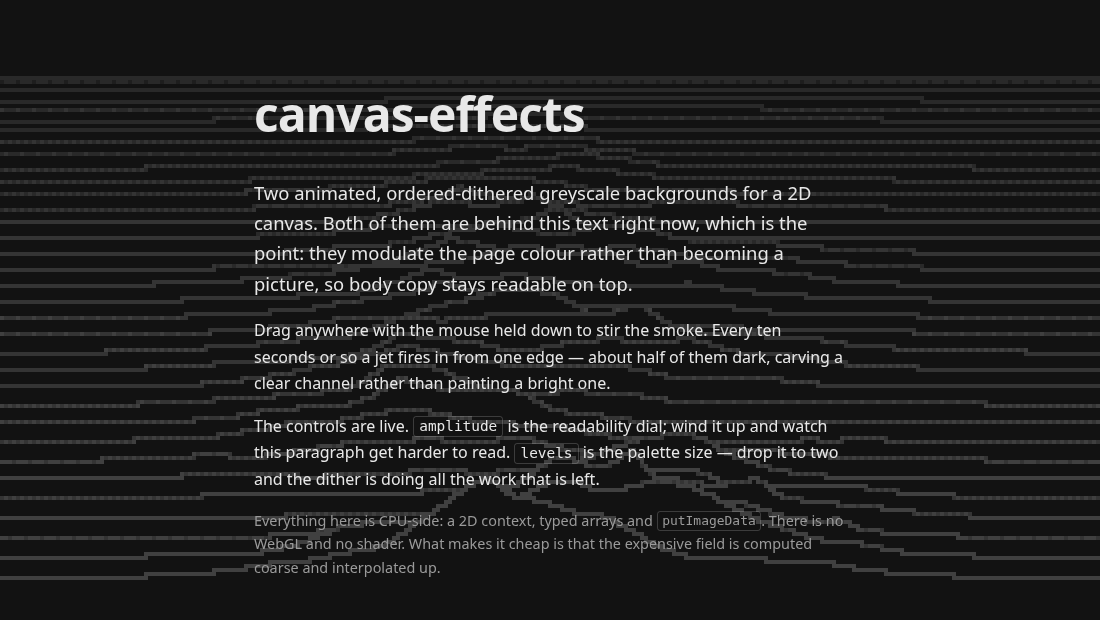
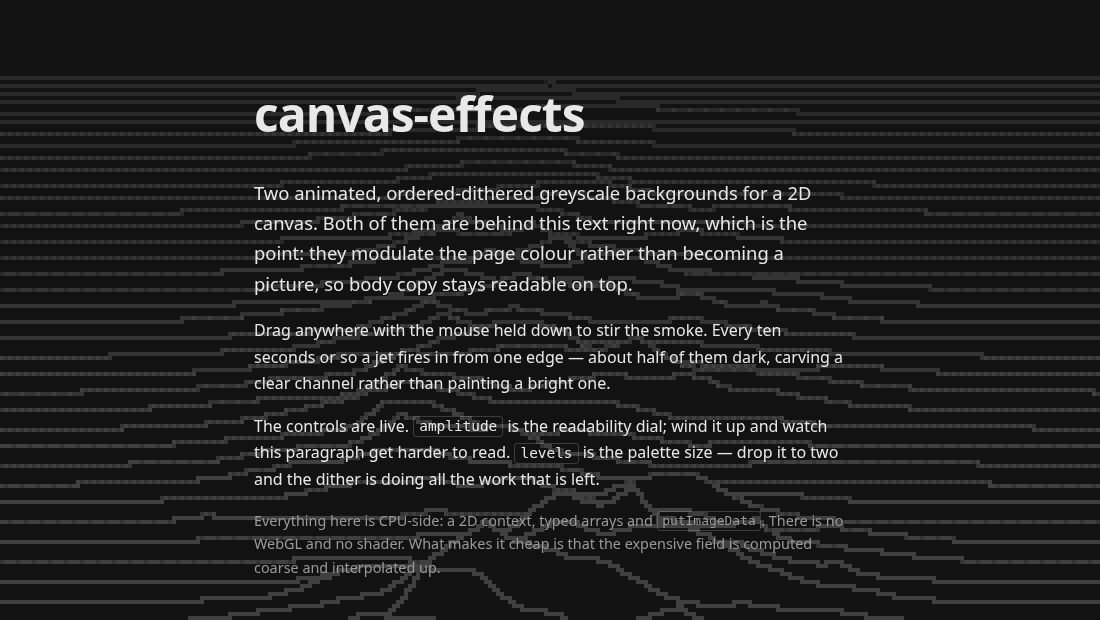
Let ridges roll off the bottom instead of vanishing at the near edge
The nearest profile crept down to `bottomMargin` and then popped out of
existence the moment `travel` crossed the next whole number, because the loop
started at `ceil(travel)` and dropped anything nearer. Measured across one row of
travel on an 80-cell field: the lowest drawn row walked 72.8 to 75.2 and then
snapped back, and the bottom five rows were never drawn at all.

`overscan` now keeps rows alive past the near edge. They matter on screen twice
over - a crest stays visible long after its baseline has gone, and its silhouette
must keep occluding the rows behind it. Rows entirely below the edge are skipped,
so it is a bound rather than a workload; a test asserts raising it to 40 changes
nothing.

ONE SUBTLETY THIS UNCOVERED
Extrapolating the geometry past the edge is not enough on its own, because
amplitude grows faster than the baseline does. A row slightly past the edge
loomed several screen heights tall and threw a silhouette over the whole field -
and since the growth outran the baseline's, it never qualified as fully below the
screen and never left. The existing steep-flank test caught it, failing with 42
blank columns.

rowAmplitude now freezes a row's size at the near edge. Strict perspective would
keep enlarging it, which is arguably more correct - you are flying into it - but
it makes the effect unusable and prevents rows ever leaving. Frozen, a row simply
slides out of frame.

Also clamps rowBrightness at 1: depth is negative for overscan rows, and full
[…]

diff --git a/src/ridges.test.ts b/src/ridges.test.ts
@@ -222,6 +222,112 @@ describe('renderRidges', () => {
   });
 });
 
+describe('rolling off the bottom', () => {
+  /** The lowest row with anything drawn in it, or -1. */
+  const lowestLit = (r: Ridges) => {
+    for (let y = r.h - 1; y >= 0; y--) {
+      for (let x = 0; x < r.w; x++) if (r.field[y * r.w + x] > 0) return y;
+    }
+    return -1;
+  };
+
+  it('draws below bottomMargin, where nothing used to be drawn at all', () => {
+    // Without overscan the nearest row stops at `bottomMargin` and the strip
+    // below it is permanently blank.
+    const withOverscan = seeded(3);
+    renderRidges(withOverscan, RIDGE_DEFAULTS);
+    const without = seeded(3);
+    renderRidges(without, { ...RIDGE_DEFAULTS, overscan: 0 });
+
+    const margin = Math.floor(RIDGE_DEFAULTS.bottomMargin * H);
+    expect(lowestLit(without)).toBeLessThanOrEqual(margin);
+    expect(lowestLit(withOverscan)).toBeGreaterThan(margin);
+  });
+
+  it('does not pop a row out of existence as travel crosses a whole number', () => {
+    // The bug this fixes: the nearest row crept down to bottomMargin and then
+    // vanished, so the lowest drawn row jumped back up the screen once per row
+    // of travel. Sampled finely across a crossing, the low-water mark should
+    // move smoothly.
+    const r = seeded(3);
+    const params = { ...RIDGE_DEFAULTS, speed: 1 };
+    const samples: number[] = [];
+
+    for (let i = 0; i <= 24; i++) {
+      r.travel = 4 + i / 24;
+      renderRidges(r, params);
+      samples.push(lowestLit(r));
+    }
+
+    let worstJump = 0;
+    for (let i = 1; i < samples.length; i++) worstJump = Math.max(worstJump, Math.abs(samples[i] - samples[i - 1]));
+
+    // A deleted row showed up as a jump of several cells back up the screen.
+    expect(worstJump).toBeLessThanOrEqual(2);
+  });
+
+  it('keeps a crest visible after its baseline has left the screen', () => {
+    // Which is the whole reason the overscan rows are drawn rather than merely
+    // counted. Targeted rather than searched: pick the depth where a row's
+    // baseline is off screen but its crest is not, then place a row there.
+    const params = RIDGE_DEFAULTS;
+
+    let depth = 0;
+    for (let d = -0.005; d > -0.5; d -= 0.005) {
+      const base = rowY(d, H, params);
+      if (base > H && base - rowAmplitude(d, H, params) < H) {
+        depth = d;
+        break;
+      }
+    }
+    expect(depth).toBeLessThan(0);
+
+    // depth = (worldZ - travel) / rows, so this puts row 10 at that depth.
+    const travel = 10 - depth * params.rows;
+    const margin = Math.floor(params.bottomMargin * H);
+
+    const withOverscan = seeded(3);
+    withOverscan.travel = travel;
+    renderRidges(withOverscan, params);
+
+    const without = seeded(3);
+    without.travel = travel;
+    renderRidges(without, { ...params, overscan: 0 });
+
+    const belowMargin = (r: Ridges) => {
+      let n = 0;
+      for (let y = margin + 1; y < H; y++) for (let x = 0; x < W; x++) if (r.field[y * r.w + x] > 0) n++;
+      return n;
+    };
+
+    expect(belowMargin(withOverscan)).toBeGreaterThan(0);
+    expect(belowMargin(without)).toBe(0);
+  });
+
+  it('still lets rows leave, rather than looming forever', () => {
+    // Amplitude is frozen at the near edge so the baseline outruns it. If it
+    // kept growing, a passing row would never be fully below the screen and
+    // would occlude the entire field from behind the bottom edge.
+    const params = RIDGE_DEFAULTS;
+    for (const depth of [-0.05, -0.2, -0.6, -2]) {
+      const base = rowY(depth, H, params);
+      const amp = rowAmplitude(depth, H, params);
+      expect(amp).toBeLessThanOrEqual(rowAmplitude(0, H, params) + 1e-9);
+      if (depth <= -0.6) expect(base - amp).toBeGreaterThanOrEqual(H);
+    }
+  });
+
+  it('costs little: rows fully below the edge are skipped, not drawn', () => {
+    // Overscan is a bound rather than a workload. Raising it well past what the
+    // geometry needs must not change the picture.
+    const modest = seeded(3);
+    renderRidges(modest, RIDGE_DEFAULTS);
+    const generous = seeded(3);
+    renderRidges(generous, { ...RIDGE_DEFAULTS, overscan: 40 });
+    expect(Array.from(generous.field)).toEqual(Array.from(modest.field));
+  });
+});
+
 describe('stepRidges', () => {
   it('flies forward at the speed it is given', () => {
     const r = seeded();

diff --git a/src/ridges.ts b/src/ridges.ts
@@ -75,6 +75,20 @@ export interface RidgeParams {
   depthFade: number;
   /** Rows crossed per second. This is the flying speed. */
   speed: number;
+  /**
+   * Extra rows kept alive past the near edge, so a profile rolls off the bottom
+   * of the screen instead of being deleted when it gets there.
+   *
+   * Without this the nearest row creeps down to `bottomMargin` and then pops out
+   * of existence the moment `travel` crosses the next whole number - and nothing
+   * is ever drawn below `bottomMargin` at all. Rows below the edge still matter
+   * on screen twice over: a crest can remain visible long after its baseline has
+   * gone, and its silhouette must keep occluding the rows behind it.
+   *
+   * A row is skipped once it is entirely below the bottom edge, so this is a
+   * bound rather than a cost - most of the extra rows do no work.
+   */
+  overscan: number;
 }
 
 export const RIDGE_DEFAULTS: RidgeParams = {
@@ -104,6 +118,10 @@ export const RIDGE_DEFAULTS: RidgeParams = {
   bottomMargin: 0.94,
   depthFade: 0.45,
   speed: 1.6,
+  // Enough that the nearest simulated row is always fully off screen at the
+  // default perspective and amplitude. Baselines grow faster than peaks as
+  // rows pass the edge, so this does not need to be large.
+  overscan: 8,
 };
 
 /** Seeds and offsets that give one run its landscape. */
@@ -155,14 +173,33 @@ export function rowY(depth: number, h: number, params: RidgeParams): number {
   return far + (near - far) * Math.pow(1 - depth, params.perspective);
 }
 
-/** Peak height for a row, in cells. Distant rows are shorter. */
+/**
+ * Peak height for a row, in cells. Distant rows are shorter.
+ *
+ * Held flat once a row passes the near edge rather than continuing to grow.
+ * Strict perspective would keep enlarging it - you are flying into it, after
+ * all - and a row only slightly past the edge would loom several screen heights
+ * tall, throw a silhouette across the whole field and occlude everything behind
+ * it. Worse, that growth outruns the baseline's, so such a row never qualifies
+ * as fully below the screen and never leaves at all. Freezing the size at the
+ * near edge lets a row simply slide out of frame, which is what rolling off the
+ * bottom should look like.
+ */
 export function rowAmplitude(depth: number, h: number, params: RidgeParams): number {
-  return params.amplitude * h * Math.pow(1 - depth, params.ampFalloff);
+  const clamped = depth < 0 ? 0 : depth;
+  return params.amplitude * h * Math.pow(1 - clamped, params.ampFalloff);
 }
 
-/** Line brightness for a row, 0 to 1. Distant rows are dimmer, and so hazier. */
+/**
+ * Line brightness for a row, 0 to 1. Distant rows are dimmer, and so hazier.
+ *
+ * Clamped at the top because `depth` goes negative for rows that have passed the
+ * near edge, and full brightness has to stay exactly 1 - it is a fixed point of
+ * the ordered dither, which is the only reason one-cell lines survive it.
+ */
 export function rowBrightness(depth: number, params: RidgeParams): number {
-  return 1 - depth * (1 - params.depthFade);
+  const value = 1 - depth * (1 - params.depthFade);
+  return value > 1 ? 1 : value;
 }
 
 export interface Ridges {
@@ -210,14 +247,20 @@ export function renderRidges(ridges: Ridges, params: RidgeParams): void {
 
   const first = Math.ceil(travel);
 
-  // Nearest first. The floating horizon only works front to back.
-  for (let k = 0; k < rows; k++) {
+  // Nearest first, starting below the bottom edge. The floating horizon only
+  // works front to back, and `depth` is negative for the overscan rows.
+  for (let k = -params.overscan; k < rows; k++) {
     const worldZ = first + k;
     const depth = (worldZ - travel) / rows;
     if (depth > 1) break;
 
     const base = rowY(depth, h, params);
     const amp = rowAmplitude(depth, h, params);
+
+    // Entirely below the bottom edge: it can draw nothing, and anything it
+    // would occlude is off screen too, so the horizon does not need it either.
+    if (base - amp >= h) continue;
+
     const brightness = rowBrightness(depth, params);
 
     for (let x = 0; x < w; x++) {

diff --git a/README.md b/README.md
@@ -296,6 +296,17 @@ and the characteristic bitten-out look where a near crest eats into the rows abo
 draw from nearest to farthest, keep the highest point covered so far per column, and skip anything at or below it. One
 pass, no z-buffer, no sorting — `rows × width` work for a whole frame.
 
+**Rows roll off the bottom rather than being deleted at it.** `overscan` keeps rows alive past the near edge, because a
+crest stays visible long after its baseline has left the screen and its silhouette must keep occluding what is behind
+it. Without it the nearest row crept down to `bottomMargin`, popped out of existence the moment `travel` crossed the
+next whole number, and nothing was ever drawn below `bottomMargin` at all.
+
+One subtlety that came with it: `rowAmplitude` freezes a row's size once it passes the near edge. Strict perspective
+would keep enlarging it — you are flying into it — and a row barely past the edge would loom several screen heights
+tall and throw a silhouette across the whole field. Worse, that growth outruns the baseline's, so the row would never
+qualify as fully below the screen and would never leave. Freezing the size lets it simply slide out of frame. Rows that
+are entirely below the edge are skipped, so `overscan` is a bound rather than a workload.
+
 **Rows are indexed by travel, not by screen position.** A profile is tied to a whole number of `travel`, so it keeps
 its own shape for its whole life and simply slides down as you fly past it; a new one enters at the top each time
 `travel` crosses an integer. Tying profiles to screen slots instead makes the terrain churn in place without ever
@@ -505,6 +516,7 @@ And the `ridges` sub-options, all documented inline on `RidgeParams`:
 | `perspective`                | `1.35`          | 1 is an even stack (the flat plot); above 1 crowds the far rows.                                                |
 | `depthFade`                  | `0.45`          | Brightness of the farthest row. Below 1 it dithers into haze.                                                   |
 | `topMargin` / `bottomMargin` | `0.12` / `0.94` | Where the farthest and nearest rows sit.                                                                        |
+| `overscan`                   | `8`             | Rows kept alive past the near edge, so profiles roll off the bottom instead of being deleted there.             |
 
 Fire only:
 
